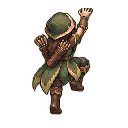
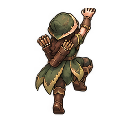
Ranger climb frames recentred on the ladder; ladders drawn in front of platforms
The new Ranger climb frames had the body 3-10 px left of the knight's (and
of each other), so she hung off the left rail; each frame is shifted so the
lower body sits at the same column as the knight's. LadderOrder 3 so a
ladder leans on the front of the ledge it reaches (owner's call).

Claude-Session: https://claude.ai/code/session_01FdNBSjX3EpmvbacjATUpjx

Changed region(s): [[0.25, 0.0625, 0.75, 0.9062]]

diff --git a/Assets/Scripts/View/MapScenery.cs b/Assets/Scripts/View/MapScenery.cs
@@ -108,9 +108,10 @@ namespace AshenVale
         // slashes 12, arrows 13 (WorldView).
         // A distant picture draws at SkyOrder and the front picture in front of it at FarOrder; effects on them at +5.
         public const int SkyOrder = -40, FarOrder = -30, MidOrder = -20, BackDecorOrder = -10, GroundOrder = -2,
-                         LadderOrder = 1, PlatformOrder = 2, GlowOrder = 4, PropOrder = 5, PortalOrder = 6;
+                         PlatformOrder = 2, LadderOrder = 3, GlowOrder = 4, PropOrder = 5, PortalOrder = 6;
         // Ground fill -2, its painted top strip -1 (painted tiles carry picture above the path line, which used to
-        // hide the foot of every ladder), ladders 1 so they stand on the path, platforms 2 in front of ladders.
+        // hide the foot of every ladder), platforms 2, ladders 3 so a ladder leans against the front of the ledge it
+        // reaches (owner's call) and its foot stands on the path.
         const string EffectShader = "Shaders/MapEffect";
 
         sealed class Theme
